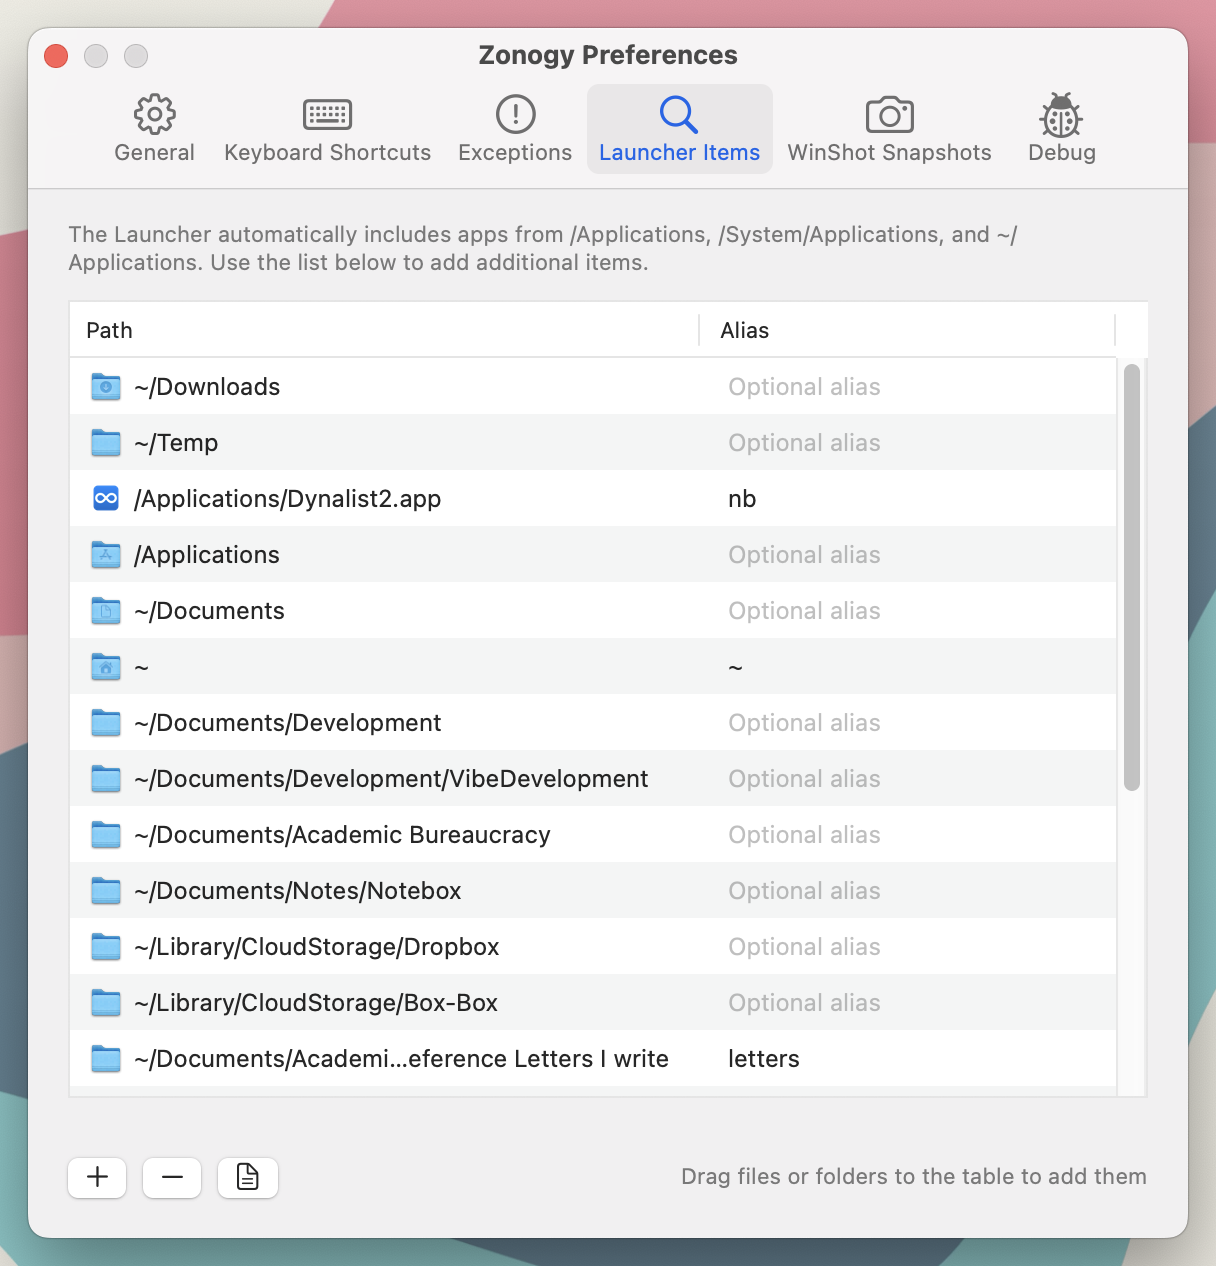
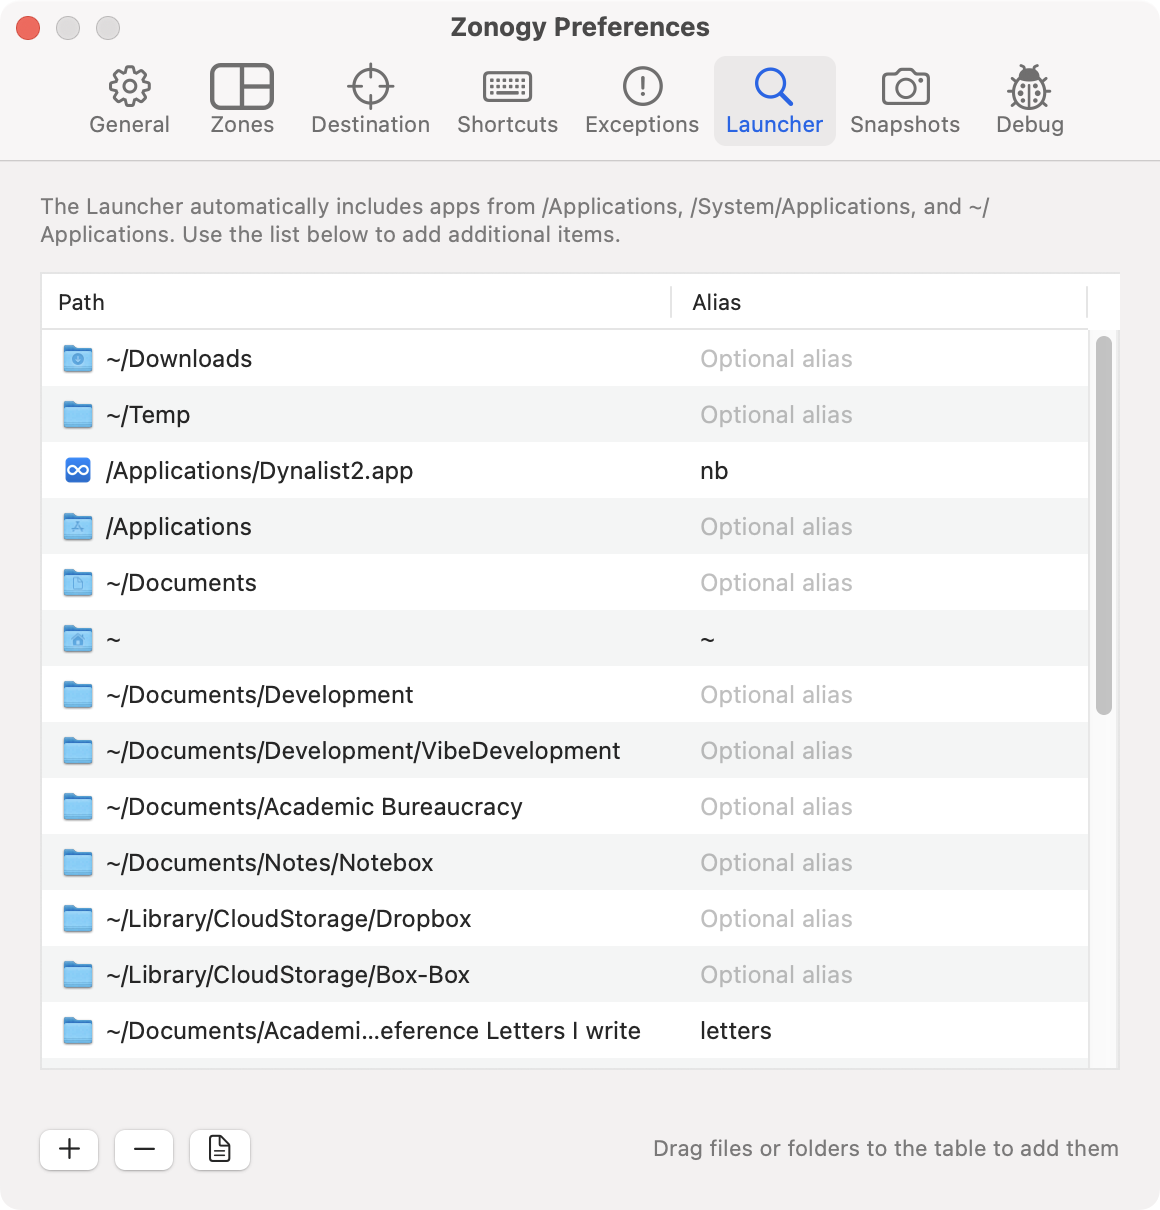
readme, prefs image update

diff --git a/README.md b/README.md
@@ -1,6 +1,6 @@
 # Zonogy
 
-Zonogy is a zone-based window manager for macOS. (The name suggests "the origin or formation of zones.") Zonogy is free and open source (MIT license).
+Zonogy is a zone-based window manager for macOS. (The name evokes "the origin or formation of zones.") Zonogy is free and open source (MIT license).
 
 Zonogy divides each screen into persistent tiling zones plus a floating zone. At any time, one zone is the destination for the next window. A keyboard-driven Launcher and hover-over DockMenus let you quickly find any window. Window arrangements can be snapshotted and restored to switch working contexts.
 
@@ -63,7 +63,7 @@ Filling the destination tiling zone advances to the next empty tiling zone, or t
 
 - **Launcher** (`Control-Cmd-Space`) — a searchable overlay for switching windows, launching apps, and opening folders or documents. Fuzzy matching with smart ranking: it learns which items you pick for each query and prioritizes them next time. Supports optional short aliases for quick access. The Launcher appears directly in the destination zone where the window will appear — including automatically when a zone is emptied, so you can immediately place the next window there. Hold `Option` while selecting an app row to open a new window of that app instead of activating the existing one.
 
-<img src="docs/images/launcher.png" alt="Launcher" width="499" /><img src="docs/images/launcher-preferences.png" alt="Launcher Preferences window" width="608" />
+<img src="docs/images/launcher.png" alt="Launcher" width="499" /><img src="docs/images/launcher-preferences.png" alt="Launcher Preferences window" width="580" />
 
 - **CmdTab** (`Cmd-Tab`) — a fast window chooser replacing the macOS app switcher. Hold Cmd and tap Tab to cycle windows ordered by recency. The chooser appears directly in the destination zone where the window will appear.
 
@@ -78,6 +78,7 @@ Filling the destination tiling zone advances to the next empty tiling zone, or t
 <img src="docs/images/dockmenus.png" alt="DockMenus" width="356" />
 
 - **ActiveFit** — windows that can't shrink to fit their zone are automatically shifted into view when focused (outside of their zone's bounds), then slide back when you move on.
+- **Floating zones** — a window in the floating zone stays on top of tiling zone windows: it auto-minimizes when a tiling window it overlaps is focused. If an overlapping tiling zone empties, the floating window is promoted into it.
 - **UnderCovers mode** — reveal the desktop and unmanaged windows.
 - **Window Focus Navigation** (`Control-Cmd-Arrows`, hold) — each arrow press hops a blue dot to the nearest window in that direction; release to focus it. Zonogy's geometric arrangement of windows makes directional navigation unambiguous.
 